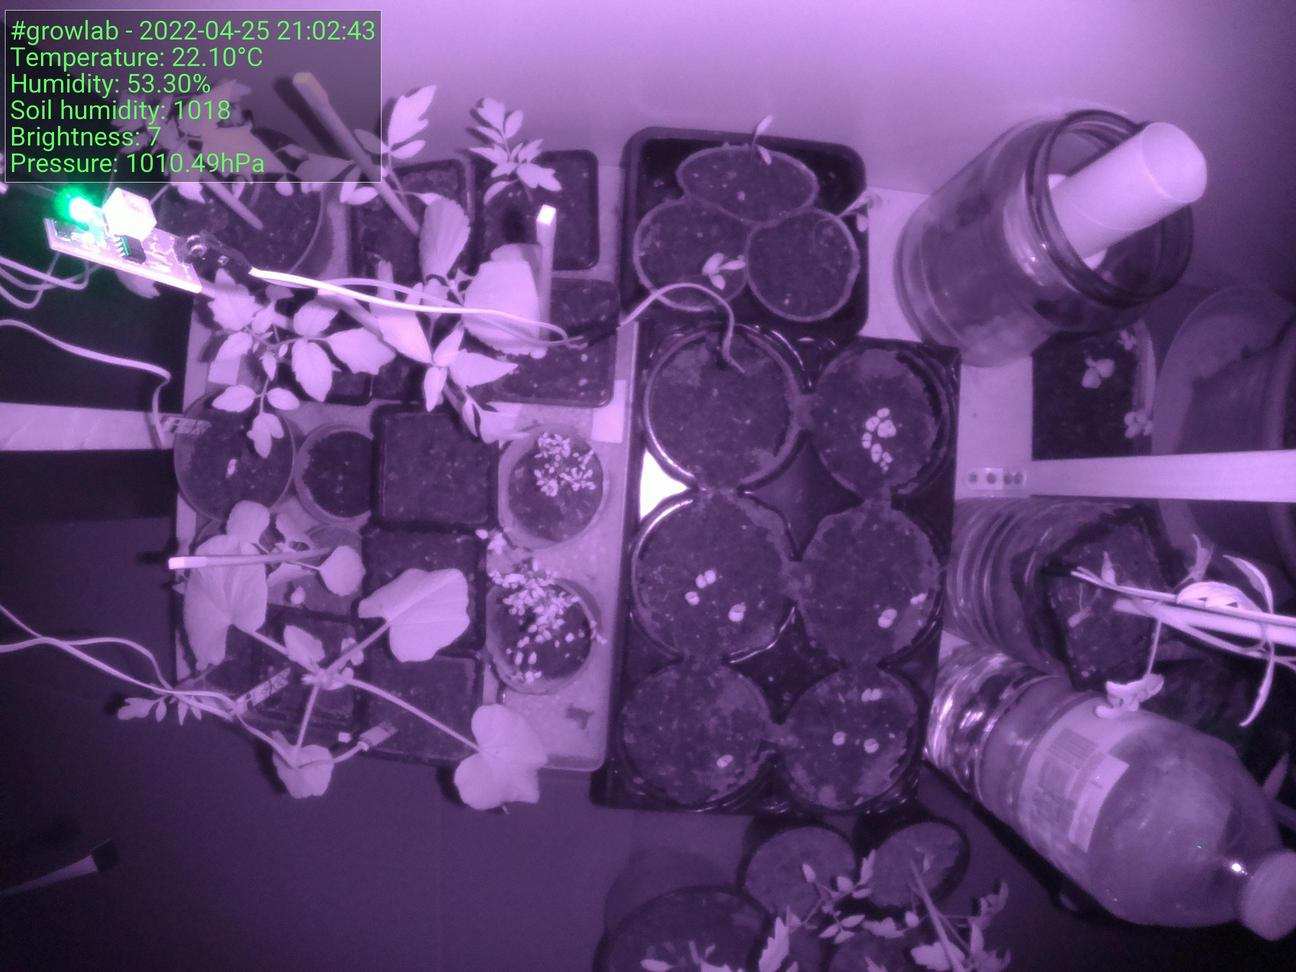
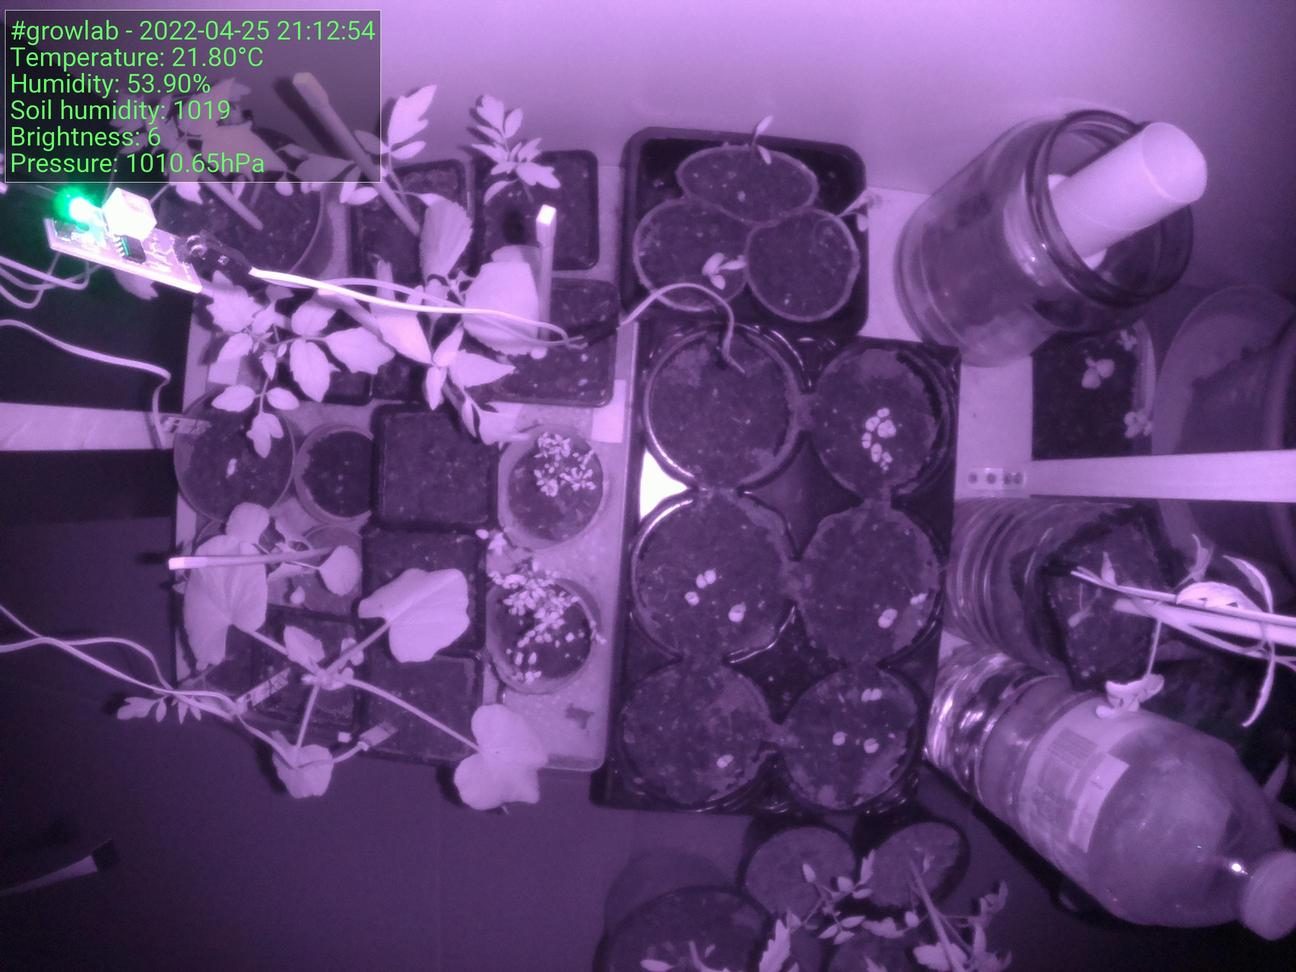
:bento: Update preview

diff --git a/index.html b/index.html
@@ -39,15 +39,15 @@
                     <tbody>
                         <tr>
                             <td>Time</td>
-                            <td>2022-04-25 21:02:43</td>
+                            <td>2022-04-25 21:12:54</td>
                         </tr>
                         <tr>
                             <td>Temperature</td>
-                            <td>22.10°C</td>
+                            <td>21.80°C</td>
                         </tr>
                         <tr>
                             <td>Humidity</td>
-                            <td>53.30%</td>
+                            <td>53.90%</td>
                         </tr>
                     </tbody>
                 </table>
@@ -55,7 +55,7 @@
 
                 <h5>Latest image</h5>
 		<div style="width: 85%;">
-	                <img class="figure-img img-fluid rounded" src="./preview.jpg?uid=1650913370.4300048">
+	                <img class="figure-img img-fluid rounded" src="./preview.jpg?uid=1650913981.9262753">
 		</div>
             </div>
         </div>
